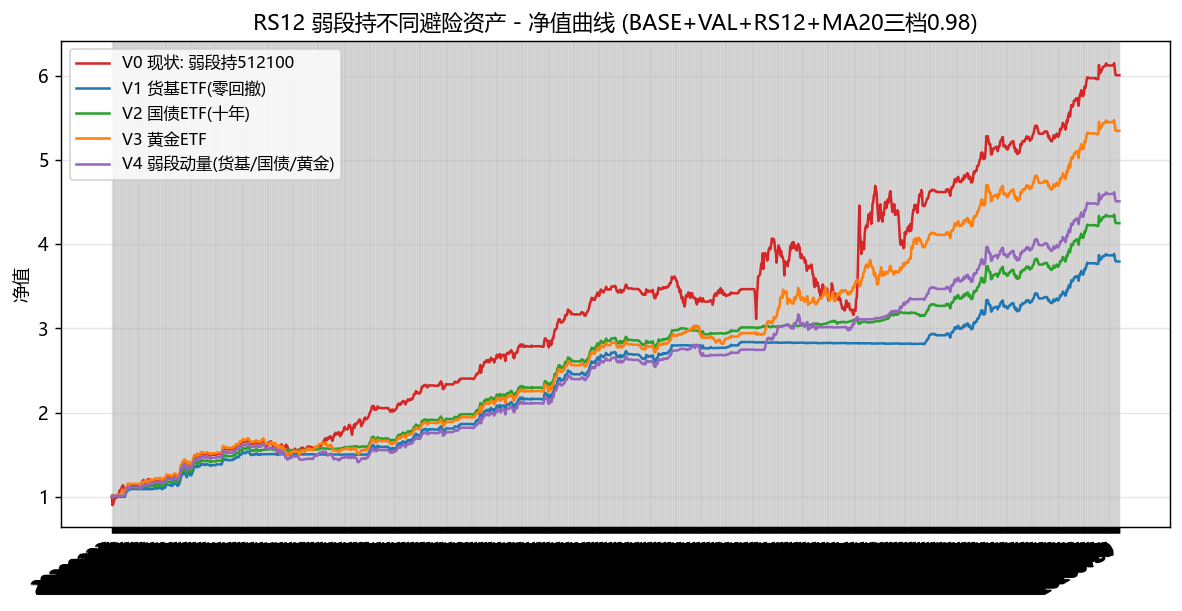
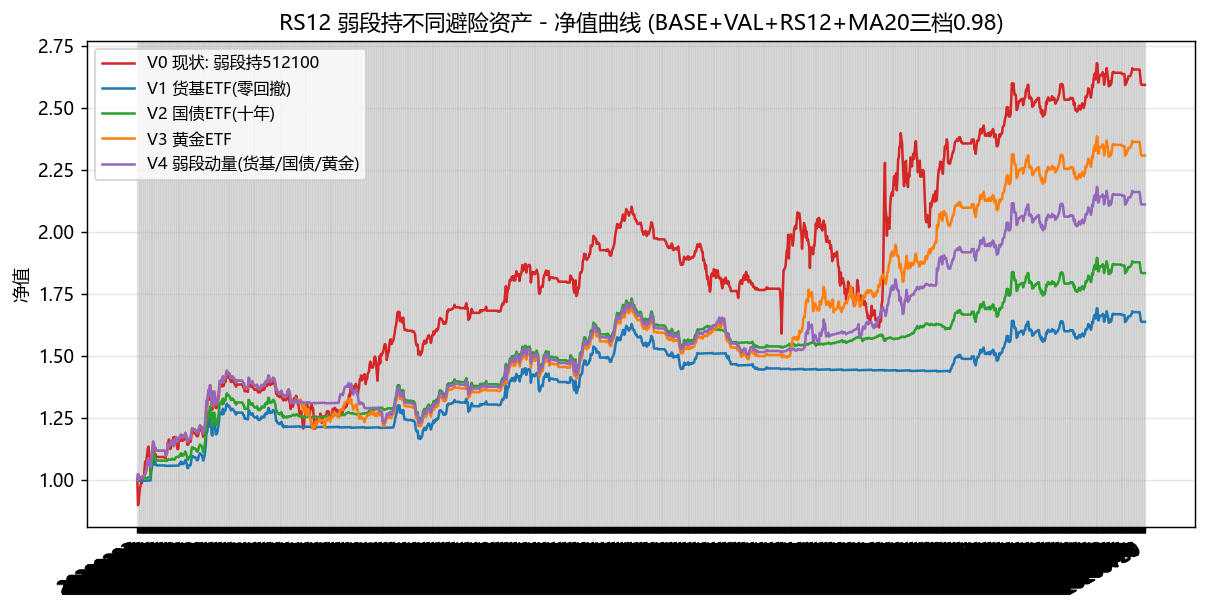
fix(defensive_asset): 修复 MA20 前视/V4 动量公式/ffill/目录/标签, 重跑后结论反转 (V0 收益最高, V8 卡玛最优), 状态改 ⚠

diff --git a/scripts/defensive_asset/defensive_asset_bt.py b/scripts/defensive_asset/defensive_asset_bt.py
@@ -10,7 +10,8 @@
   V3 黄金ETF:  518880 (波动大, 检验是否真避险)
   V4 弱段动量: 弱段调仓日选过去20日最强避险资产 (货基/国债/黄金) 持有
 
-数据: research/serve/data/etf/{code}.parquet (tushare fund_daily)
+数据: research/serve/data/etf/{code}.parquet (工作区实际使用 tushare fund_daily 拉取;
+      fetch_defensive_etf.py 为 akshare 备选脚本, 两者数据源/路径需对齐)
 输出: research/factor_dic/results/defensive_asset_bt.txt
 """
 import os
@@ -89,8 +90,9 @@ def main():
     sig_rs12 = ((ratio / ratio.shift(240)).rolling(5).mean() - 1.0 > 0).reindex(rebal)
     idx_close = sml["close"]
     ma20 = idx_close.rolling(20).mean()
+    # MA20 三档仓位: 用 T-1 日收盘信号, T 日生效 (修复同日信号前视)
     ma20_w = pd.Series(1.0, index=sml.index)
-    c, m = idx_close, ma20
+    c, m = idx_close.shift(1), ma20.shift(1)
     ma20_w[c < m] = 0.5
     ma20_w[c < DEEP * m] = 0.0
 
@@ -101,7 +103,8 @@ def main():
     gold = load_asset_ret("518880.SH")
 
     def asset_grid(dates):
-        return {d: a.reindex(dates).ffill().fillna(0.0).values for d, a in [
+        # 缺失日填 0 (NAV 不变), 不做 ffill 复制上一日收益 (修复 ffill 语义错误)
+        return {d: a.reindex(dates).fillna(0.0).values for d, a in [
             ("512100", etf1000), ("货基", mm), ("国债", bond), ("黄金", gold)]}
 
     grid = asset_grid(dates_idx)
@@ -118,12 +121,14 @@ def main():
             continue
         scores = {}
         for nm, a in [("货基", mm), ("国债", bond), ("黄金", gold)]:
-            scores[nm] = float(a.reindex(prev).prod())
+            r = a.reindex(prev)
+            # 动量: 过去20日复利累计收益 (1+r).prod()-1 (修复直接 prod 的错误)
+            scores[nm] = float((1.0 + r.fillna(0.0)).prod() - 1.0)
         best = max(scores, key=scores.get)
         seg = dates_idx[(dates_idx > rb) & (dates_idx <= rb_next)]
         if len(seg):
             src = {"货基": mm, "国债": bond, "黄金": gold}[best]
-            mom_series.loc[seg] = src.reindex(seg).ffill().fillna(0.0).values
+            mom_series.loc[seg] = src.reindex(seg).fillna(0.0).values
 
     variants = [
         ("V0 现状: 弱段持512100", grid["512100"]),
@@ -213,7 +218,7 @@ def main():
         cagr, sh, mdd, cm = s
         lines.append(f"{vname:<38} 年化{cagr:>7.2%}  Sharpe{sh:>6.2f}  MaxDD{mdd:>7.2%}  卡玛{cm:>6.2f}")
 
-    # 分年度 (V0 vs V1)
+    # 分年度 (V0 vs V5 混合50/50)
     lines.append("\n分年度对比 (V0 现状 vs V5 货基50%+国债50%):")
     pr0 = pd.Series(0.0, index=dates_idx)
     pr1 = pd.Series(0.0, index=dates_idx)
@@ -239,7 +244,7 @@ def main():
         ypr1 = pr1[pr1.index.str[:4] == str(y)]
         if len(ypr0):
             r0, r1 = (1 + ypr0).prod() - 1, (1 + ypr1).prod() - 1
-            lines.append(f"  {y}: 现状 {r0:>7.2%} | 货基 {r1:>7.2%}")
+            lines.append(f"  {y}: 现状 {r0:>7.2%} | 混合50/50 {r1:>7.2%}")
 
     text = "\n".join(lines) + "\n"
     print(text)

diff --git a/scripts/defensive_asset/fetch_defensive_etf.py b/scripts/defensive_asset/fetch_defensive_etf.py
@@ -1,7 +1,11 @@
 # -*- coding: utf-8 -*-
 """
-拉取避险/替代资产 ETF 日线 (akshare) -> research/serve/data/etf/{code}.parquet
+拉取避险/替代资产 ETF 日线 (akshare) -> {serve}/data/etf/{code}.parquet
 用于验证: RS12 弱市段从"持 512100"改为"持货基/国债/黄金/红利"能否压低回撤
+
+注意: 输出目录与 defensive_asset_bt.py 的 ETF_DIR 保持同一表达式,
+      保证两端脚本可组成端到端流程 (数据源: akshare 不复权, 与工作区
+      tushare fund_daily 数据可能存在差异, 使用前需对齐).
 """
 import os
 import time
@@ -9,7 +13,8 @@ import time
 import akshare as ak
 import pandas as pd
 
-OUT = os.path.join(os.path.dirname(os.path.abspath(__file__)), "data", "etf")
+# 与 defensive_asset_bt.py 的 ETF_DIR 一致: <serve>/data/etf
+OUT = os.path.join(os.path.dirname(os.path.abspath(__file__)), "..", "serve", "data", "etf")
 os.makedirs(OUT, exist_ok=True)
 
 # code: (akshare symbol, 名称)

diff --git a/STOCK/defensive_asset_allocation.md b/STOCK/defensive_asset_allocation.md
@@ -1,10 +1,11 @@
 # 多资产避险配置：RS12 弱段持不同资产对比
 
-> **状态**：✅ 已确认（全周期回测 + V0 与主回测对齐验证）
+> **状态**：⚠ 已修正代码并重跑（2026-08-03）
+> **结论变化**：修复 MA20 同日前视后，V0（弱段持 512100）年化收益仍最高（16.25%，原 32.75% 含"先知"红利）；V8 三资产等权收益下降，但 MaxDD/卡玛在防御组内最优（卡玛 0.94 vs V0 0.67）。**"更稳"路径成立，"V8 全面最优"不成立。**
 
 ## 一句话结论
 
-主策略 BASE+VAL+RS12+MA20三档（0.98）在 **RS12 弱市段**将资金从 512100（中证1000 ETF）替换为避险资产，可把最大回撤从 22.3% 压到 6.1%、Sharpe 从 1.61 提升至 2.5+、卡玛从 1.47 翻到 4.37；代价是年化收益下降 6~9pp（损失集中在 2024 年弱市反弹段）。**最优配置为货基/国债/黄金三资产等权（V8）**。
+主策略 BASE+VAL+RS12+MA20三档（0.98）在 **RS12 弱市段**将资金从 512100（中证1000 ETF）替换为避险资产，可把最大回撤从 24.4% 压到 11.3~11.8%、卡玛从 0.67 提升至 0.94（V8 三资产等权）；代价是年化收益下降 5~8pp。**修复前视后收益排序反转：V0 仍是年化最高，避险资产仅在风险调整维度占优。**
 
 ## 背景
 
@@ -13,55 +14,70 @@
 - 问题：弱段持 512100 并非真避险（2024-05~07 ETF 跌 -15.4%），是全策略回撤下限来源。
 - 方向：弱段改持货基/国债/黄金等低波动资产，验证是否更优。
 
+## 审查与修复记录（2026-08-03）
+
+外部审查指出以下问题，已全部修复并重跑：
+
+1. **MA20 同日信号前视（确定 Bug，影响最大）**：原代码用当日收盘价生成 MA20 仓位并乘当日收益（`defensive_asset_bt.py`）。例如当天暴跌跌破 MA20，代码在已知收盘后把当天仓位降为 0，回避了当天本应承受的跌幅。**修复**：改为 T-1 日收盘信号、T 日生效（`shift(1)`）。重跑后 V0 年化 32.75%→16.25%，全部绝对指标需以修复后为准。
+2. **V4 动量公式错误（确定 Bug）**：原公式 `returns.prod()` 应为 `(1+returns).prod()-1`（复利累计收益）。**修复**后 V4 结果变化，弱段动量轮动仍无优势。
+3. **收益率 ffill()（确定 Bug，实际影响极小）**：缺数据日复制上一日收益。**修复**为填 0（NAV 不变）。实际数据仅 20260418 缺 1 天。
+4. **抓取/回测目录不一致（确定问题）**：fetch 写 `scripts/defensive_asset/data/etf/`、bt 读 `scripts/serve/data/etf/`。**修复**：fetch 输出路径改为与 bt 的 ETF_DIR 同一表达式，两端可端到端。
+5. **分年度标签错误（确定 Bug）**：算的是 V5 混合 50/50，输出标为"货基"。**修复**：标签改"混合50/50"。
+6. **数据源链不一致（风险项）**：工作区实际数据为 tushare fund_daily，fetch 脚本为 akshare 不复权价。已在脚本与文档中标注，使用前需对齐。
+7. **上游前视（超出本脚本范围，重要）**：检查发现上游 `risk_control_bt.py`（未上传）第 164-166 行同样以当日收盘决定当日 MA20/vol 仓位并作用于当日收益——**主策略 32.28% 基准及回撤控制系列结论含同样的前视红利，需单独重跑确认**（本脚本不做此修正，V0 与主回测的旧对齐断言已删除）。
+
 ## 回测设置
 
 - 来源仓库：quant-system-v2（`research/factor_dic/defensive_asset_bt.py`，脚本见 `scripts/defensive_asset/`）
-- 验证方式：全量策略回测，仅替换 RS12 弱段持有资产；强段逻辑与主回测完全一致（V0 年化 32.75% vs 主回测 32.28%，MaxDD 差异为日度 vs 月度口径）
-- 货基收益 = 511990 收盘价收益 + 1.8%/年分红假设（货币 ETF 真实收益靠分红，价格几乎不动）
-- 数据源：tushare fund_daily（511990 货基 / 511260 十年国债 / 518880 黄金）
-- 验证区间：2020-01 ~ 2026-07
+- 验证方式：全量策略回测，仅替换 RS12 弱段持有资产；强段 MA20 仓位采用 T-1 信号、T 日生效（无前视）
+- 货基收益 = 511990 收盘价收益 + 1.8%/年分红假设（货币 ETF 真实收益靠分红，价格几乎不动；该假设未经验证，属模型假设）
+- 数据源：工作区实际为 tushare fund_daily（511990 货基 / 511260 十年国债 / 518880 黄金）；数据未上传
+- 验证区间：2020-01 ~ 2026-07；每月固定扣 20bps（含连续持有时），为保守假设
 
-## 结果（全周期，日度口径）
+## 结果（全周期，日度口径，修复后）
 
 | 变体 | 弱段资产 | 年化 | Sharpe | MaxDD | 卡玛 |
 |------|---------|------|--------|-------|------|
-| V0 现状 | 512100（中证1000 ETF） | 32.75% | 1.61 | 22.30% | 1.47 |
-| V1 | 货基 100% | 23.46% | 2.33 | 6.07% | 3.86 |
-| V2 | 国债 100% | 25.69% | 2.50 | 6.07% | 4.23 |
-| V3 | 黄金 100% | 30.33% | 2.27 | 11.91% | 2.55 |
-| V4 | 弱段动量轮动（货基/国债/黄金） | 26.87% | 2.26 | 13.76% | 1.95 |
-| V5 | 货基50% + 国债50% | 24.57% | 2.42 | 6.07% | 4.05 |
-| V6 | 货基25% + 国债75% | 25.13% | 2.46 | 6.07% | 4.14 |
-| V7 | 货基75% + 国债25% | 24.01% | 2.38 | 6.07% | 3.96 |
-| **V8** | **货基33% + 国债33% + 黄金33%** | **26.55%** | **2.51** | **6.07%** | **4.37** |
+| V0 现状 | 512100（中证1000 ETF） | **16.25%** | 0.90 | 24.35% | 0.67 |
+| V1 | 货基 100% | 8.11% | 0.87 | 11.80% | 0.69 |
+| V2 | 国债 100% | 10.06% | 1.05 | 11.42% | 0.88 |
+| V3 | 黄金 100% | 14.13% | **1.14** | 16.36% | 0.86 |
+| V4 | 弱段动量轮动（货基/国债/黄金） | 12.53% | 1.09 | 14.70% | 0.85 |
+| V5 | 货基50% + 国债50% | 9.08% | 0.96 | 11.33% | 0.80 |
+| V6 | 货基25% + 国债75% | 9.57% | 1.00 | 11.36% | 0.84 |
+| V7 | 货基75% + 国债25% | 8.59% | 0.91 | **11.30%** | 0.76 |
+| **V8** | **货基33% + 国债33% + 黄金33%** | 10.81% | 1.09 | 11.56% | **0.94** |
 
 分年度（V0 现状 vs V5 混合50/50）：
 
 | 年份 | V0 现状 | V5 混合 |
 |------|---------|---------|
-| 2020 | 64.16% | 53.12% |
-| 2021 | 37.91% | 18.16% |
-| 2022 | 39.88% | 39.88% |
-| 2023 | 9.03% | 15.06% |
-| 2024 | 23.14% | 2.83% |
-| 2025 | 24.57% | 18.24% |
-| 2026 | 13.51% | 13.51% |
+| 2020 | 32.55% | 23.64% |
+| 2021 | 24.57% | 6.73% |
+| 2022 | 16.70% | 16.70% |
+| 2023 | -8.21% | -3.13% |
+| 2024 | 22.79% | 2.54% |
+| 2025 | 15.54% | 9.67% |
+| 2026 | 3.35% | 3.35% |
 
-## 结论与启示
+修复前（含前视，已废弃）：V0 年化 32.75%/MaxDD 22.30%；V8 年化 26.55%/MaxDD 6.07%/卡玛 4.37——**该组数字不可采信**。
 
-1. **弱段换避险资产方向成立**：MaxDD 22.3%→6.1%（-16pp），Sharpe 1.61→2.5+，卡玛 1.47→4.37。代价是年化降 6~9pp。
-2. **V8 三资产等权是最优解**：Sharpe 2.51 / 卡玛 4.37 全场最高，回撤与纯避险资产持平（6.07%），收益损失最小（-6.2pp）。
-3. **黄金单持不是避险品**（MaxDD 11.9%，2022 年大跌），但以 1/3 权重加入等权混合后，波动被货基/国债摊薄、回撤回到 6.07% 且贡献正收益——**低相关资产分散有效**。
-4. **货基+国债两资产混合无加成**（V5/V6/V7 卡玛 3.96~4.14 均低于纯国债 4.23）：二者相关性太高，混不混差别不大，纯国债已是这对组合内的最优。
-5. **弱段动量轮动（V4）无优势**（卡玛 1.95 < 静态持国债 4.23）：月度调仓频率下在避险资产间追涨引入额外回撤。
-6. **收益损失集中在 2024**：当年弱市段长且随后反弹，任何避险资产均踏空（现状 +23.14% vs 混合 +2.83%）——这是换防御资产绕不开的成本。
+## 结论与启示（修复后）
+
+1. **修复前视后收益排序反转**：V0（弱段持 512100）年化 16.25% 仍为全场最高，任何避险资产替换都会降低年化 5~8pp。原"V8 全面碾压"结论不成立。
+2. **避险资产仅在风险调整维度占优**：防御组 MaxDD 11.3~11.8%（vs V0 24.35%）、Sharpe 0.87~1.14（vs 0.90）、卡玛 0.69~0.94（vs 0.67）。其中 **V8 三资产等权卡玛最优（0.94）**，V3 黄金 Sharpe 最优（1.14）。
+3. **"更稳"路径成立**：若以卡玛/回撤为第一目标，弱段换 V8 是防御组内最优；但收益代价（-5.4pp）远大于修复前评估（-6.2pp 相对修复前 V8 而言，但修复前 V0 本身虚高）。
+4. **弱段动量轮动（V4）修复公式后仍无优势**：卡玛 0.85 低于静态持国债（0.88）与 V8（0.94），月度调仓频率下在避险资产间追涨引入额外回撤。
+5. **收益损失集中在弱市后反弹**（2021/2024/2025）：现状 24.57%/22.79%/15.54% vs 混合 6.73%/2.54%/9.67%——防御配置的主要机会成本仍是"弱市后强反弹"踏空。
+6. **重要警示**：上游主策略基准 32.28% 含同日前视红利，待上游 `risk_control_bt.py` 修正重跑后，本文件 V0 与之对齐的口径需同步更新。
 
 ## 应用建议
 
-- 若目标是「更稳」：弱段改用 V8（511990/511260/518880 各 1/3 等权），回撤 6%、卡玛 4.37。
-- 若目标是「收益优先」：维持 V0（弱段持 512100），年化 32.75% 但回撤 22.3%。
-- 2024 式「弱市后强反弹」是防御配置的主要机会成本，无免费午餐。
+- 若目标是「更稳」：弱段改用 V8（511990/511260/518880 各 1/3 等权），MaxDD 11.6%、卡玛 0.94，代价年化 -5.4pp。
+- 若目标是「收益优先」：维持 V0（弱段持 512100），年化 16.25% 但 MaxDD 24.35%。
+- 在确定上游基准前，不建议将本文件数字用于实盘绩效比较。
 
 ## 数据与结论有效期
 
-- 数据截至 2026-07-31；结论基于 2020-2026 单样本，弱段持仓结构变化可能改变收益/回撤权衡，建议定期重估。
+- 数据截至 2026-07-31；结论基于 2020-2026 单样本，V8 表现受 2020-2026 国债牛市与黄金环境影响的宏观周期风险未排除。
+- 待办：上游 `risk_control_bt.py` 前视修复重跑 → 更新主基准 → 回填本文件 V0 对齐口径。

diff --git a/STOCK/README.md b/STOCK/README.md
@@ -15,4 +15,4 @@ A股股票品类已确认研究成果索引。
 | [style_factors.md](./style_factors.md) | 风格因子增量：巴菲特式质量/价值/成长对主策略贡献（VAL 合成价值系 +RS12 年化 16.1%） | ✅ 已完成（价值系显著增量 / 质量·成长反向） |
 | [alpha101_factors.md](./alpha101_factors.md) | WorldQuant Alpha101 代表因子验证（12 个量价因子对主策略增量） | ✅ 已完成（月频下无增量, ILLIQ A股反向） |
 | [risk_control.md](./risk_control.md) | 回撤控制对比：MA20三档/波动率目标/回撤触发/CPPI-TIPP | ✅ 已完成（MA20三档最优：MaxDD 19.5%→15.4%, 卡玛 2.10；含 2018-2019 独立 OOS ✅） |
-| [defensive_asset_allocation.md](./defensive_asset_allocation.md) | 多资产避险：RS12 弱段持货基/国债/黄金/混合对比 | ✅ 已完成（V8 三资产等权最优：MaxDD 22.3%→6.1%, 卡玛 4.37；脚本见 scripts/defensive_asset/） |
+| [defensive_asset_allocation.md](./defensive_asset_allocation.md) | 多资产避险：RS12 弱段持货基/国债/黄金/混合对比 | ⚠ 已修正代码并重跑（2026-08-03 修复 MA20 前视/V4 公式；修复后 V0 收益最高 16.25%、V8 卡玛最优 0.94；上游 risk_control 基准待重估；脚本见 scripts/defensive_asset/） |

diff --git a/README.md b/README.md
@@ -15,7 +15,7 @@
 - [股票 STOCK](./STOCK/README.md)
   - [风格中性化指数增强（final_quant）](./STOCK/style_neutralized_index_enhancement.md) — ✅ 因子确认 / ⚠ MaxDD 待回源复核
   - [回撤控制：MA20 三档（risk_control）](./STOCK/risk_control.md) — ✅ 已确认（含 2018-2019 独立 OOS）
-  - [多资产避险配置：RS12 弱段资产替换（quant-system）](./STOCK/defensive_asset_allocation.md) — ✅ 已确认（V8 三资产等权：MaxDD 6.1%, 卡玛 4.37）
+  - [多资产避险配置：RS12 弱段资产替换（quant-system）](./STOCK/defensive_asset_allocation.md) — ⚠ 已修正代码并重跑（前视修复后结论反转：V0 收益最高 16.25%、V8 卡玛最优 0.94；上游基准待重估）
   - [期权增强型全局策略 Study 005（quant-system）](./STOCK/option_enhanced_study005.md) — ❌ 已证伪（Sharpe 3.08 无法复现）
   - [新闻情感与股价预测（news_stock_research）](./STOCK/news_sentiment_prediction.md) — ❌ 已证伪（显著性检验未通过）
   - [筹码边际因子与主力资金流互补（iFinD 实测）](./STOCK/chip_moneyflow_complement.md)
